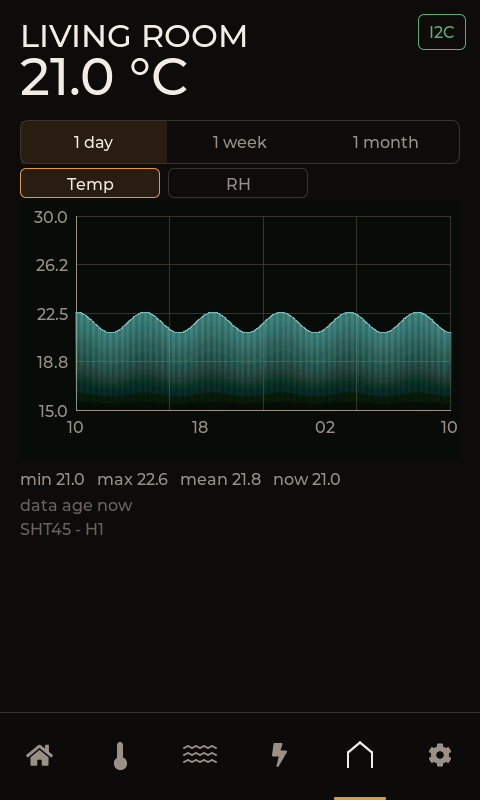
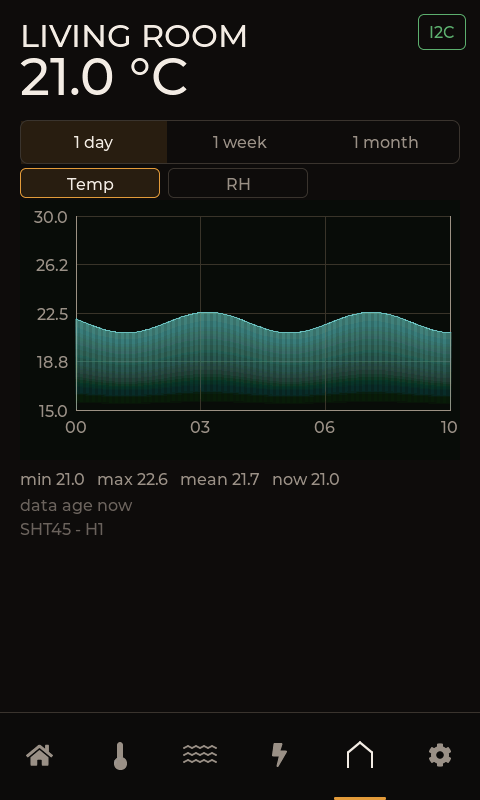
28_hauszentrale: chart audit — today window, live now, units (S23.24)

diff --git a/ESP32/28_hauszentrale/src/ui/haus_ui.c b/ESP32/28_hauszentrale/src/ui/haus_ui.c
@@ -933,7 +933,7 @@ static void build_zones(void) {
   }
 }
 
-static void ensure_chart_buffers(void);
+static bool ensure_chart_buffers(void);
 static void can_wave_tick(void);
 
 lv_obj_t* haus_ui_init(void) {
@@ -1301,11 +1301,12 @@ static int32_t* s_target_sum = NULL;
 #define TARGET_N_BYTES (HAUS_CHART_COLUMNS * sizeof(uint8_t))
 #define TARGET_SUM_BYTES (HAUS_CHART_COLUMNS * sizeof(int32_t))
 
-static void ensure_chart_buffers(void) {
+static bool ensure_chart_buffers(void) {
   if (!s_cols) s_cols = (ChartColumn*)haus_mem_alloc(CHART_SET_BYTES);
   if (!s_target) s_target = (int16_t*)haus_mem_alloc(TARGET_BYTES);
   if (!s_target_n) s_target_n = (uint8_t*)haus_mem_alloc(TARGET_N_BYTES);
   if (!s_target_sum) s_target_sum = (int32_t*)haus_mem_alloc(TARGET_SUM_BYTES);
+  return s_cols && s_target && s_target_n && s_target_sum;
 }
 
 static lv_obj_t* s_chart_canvas;
@@ -1375,12 +1376,13 @@ static bool s_chart_force = true;
 static uint32_t s_chart_last_sample;
 static bool s_chart_hourly;
 static uint32_t s_chart_t0, s_chart_t1;
+static uint32_t s_chart_now;
 static uint32_t s_chart_newest;
 
 static void ui_show_screen(int screen);
 static void ui_pop(void);
 static void chart_rebuild(void);
-static void ensure_chart_buffers(void);
+static bool ensure_chart_buffers(void);
 
 static uint16_t c565(uint32_t c) { return lv_color_to_u16(lv_color_hex(c)); }
 
@@ -1531,7 +1533,7 @@ static size_t chart_rollup_reader(void* ctx, size_t first, size_t count,
 }
 
 static void chart_build_target(uint32_t t0, uint32_t t1, bool hourly) {
-  ensure_chart_buffers();
+  if (!ensure_chart_buffers()) return;
   memset(s_target, 0, TARGET_BYTES);
   memset(s_target_n, 0, TARGET_N_BYTES);
   memset(s_target_sum, 0, TARGET_SUM_BYTES);
@@ -1544,7 +1546,8 @@ static void chart_build_target(uint32_t t0, uint32_t t1, bool hourly) {
       gui_read_target_hours_chunk(t0, first, n, chunk);
       for (size_t i = 0; i < n; i++) {
         if (chunk[i] == HAUS_CAN_TEMP_EMPTY || chunk[i] == GUI_EMPTY) continue;
-        const uint32_t t = t0 + (uint32_t)(first + i) * 3600u;
+        const uint32_t t =
+            (t0 - t0 % 3600u) + (uint32_t)(first + i) * 3600u;
         const size_t col = chart_col_for(t, t0, t1);
         s_target_sum[col] += chunk[i];
         s_target_n[col]++;
@@ -1560,7 +1563,8 @@ static void chart_build_target(uint32_t t0, uint32_t t1, bool hourly) {
       gui_read_target_samples_chunk(t0, first, n, chunk);
       for (size_t i = 0; i < n; i++) {
         if (chunk[i] == HAUS_CAN_TEMP_EMPTY || chunk[i] == GUI_EMPTY) continue;
-        const uint32_t t = t0 + (uint32_t)(first + i) * 60u;
+        const uint32_t t =
+            (t0 - t0 % 60u) + (uint32_t)(first + i) * 60u;
         const size_t col = chart_col_for(t, t0, t1);
         s_target_sum[col] += chunk[i];
         s_target_n[col]++;
@@ -1575,18 +1579,40 @@ static void chart_build_target(uint32_t t0, uint32_t t1, bool hourly) {
   }
 }
 
+static uint32_t local_midnight(uint32_t now) {
+  time_t t = (time_t)now;
+  struct tm tm;
+  if (localtime_r(&t, &tm)) {
+    tm.tm_hour = 0;
+    tm.tm_min = 0;
+    tm.tm_sec = 0;
+    tm.tm_isdst = -1;
+    const time_t m = mktime(&tm);
+    if (m > 0) return (uint32_t)m;
+  }
+  return now > 86400u ? now - 86400u : 0;
+}
+
 static void chart_build(void) {
   HausState st;
   gui_get_state(&st);
   uint32_t now = st.can.timestamp;
   if (now == 0) now = (uint32_t)time(NULL);
   if (now == 0) return;
+  if (!ensure_chart_buffers()) return;
 
-  const uint32_t span = (g_range == UI_RANGE_DAY)    ? 86400u
-                        : (g_range == UI_RANGE_WEEK) ? 7u * 86400u
-                                                     : 30u * 86400u;
-  const uint32_t t0 = now > span ? now - span : 0;
+  /* L1 is today's minute buffer. A rolling 24 h window would read
+   * yesterday's slots as today's future slots, so the 1-day view is
+   * local midnight .. now. The week/month view still rolls. */
+  uint32_t t0;
   const uint32_t t1 = now;
+  if (g_range == UI_RANGE_DAY) {
+    t0 = local_midnight(now);
+  } else {
+    const uint32_t span = (g_range == UI_RANGE_WEEK) ? 7u * 86400u
+                                                     : 30u * 86400u;
+    t0 = now > span ? now - span : 0;
+  }
 
   chart_cfg_t cfg;
   chart_cfg_for(g_detail_screen, &cfg);
@@ -1608,6 +1634,7 @@ static void chart_build(void) {
   s_chart_hourly = hourly;
   s_chart_t0 = t0;
   s_chart_t1 = t1;
+  s_chart_now = now;
   s_chart_newest = newest_epoch;
   s_chart_last_sample = gui_history_newest_epoch();
   s_chart_force = false;
@@ -1730,7 +1757,7 @@ static void chart_format_value(char* buf, size_t n, int32_t v, int unit) {
       temp_text((int16_t)v, buf, n, false);
       break;
     case CHART_UNIT_RH:
-      snprintf(buf, n, "%d", v / 100);
+      snprintf(buf, n, "%.1f", v / 100.0);
       break;
     case CHART_UNIT_POWER:
       if (v >= 10000)
@@ -1793,7 +1820,7 @@ static void chart_labels(chart_cfg_t* cfg) {
 }
 
 static void chart_draw(void) {
-  if (!s_chart_pixels) return;
+  if (!s_chart_pixels || !s_cols) return;
   /* Hide the setpoint label before the no-data early return; otherwise the
    * power screen keeps a stale "Soll" legend. */
   if (s_chart_target_lbl) obj_set_hidden(s_chart_target_lbl, true);
@@ -1807,12 +1834,14 @@ static void chart_draw(void) {
     const int y = CHART_Y0 + i * (CHART_Y1 - CHART_Y0) / 4;
     chart_hline(CHART_X0, CHART_X1, y, line);
   }
-  for (int i = 0; i <= 4; i++) {
-    const int x = CHART_X0 + i * (CHART_X1 - CHART_X0) / 4;
+  /* Three divisions to match the four x labels below the chart. */
+  for (int i = 0; i <= 3; i++) {
+    const int x = CHART_X0 + i * (CHART_X1 - CHART_X0) / 3;
     chart_vline(x, CHART_Y0, CHART_Y1, line);
   }
   chart_hline(CHART_X0, CHART_X1, CHART_Y1, c565(C_DIM));
   chart_vline(CHART_X0, CHART_Y0, CHART_Y1, c565(C_DIM));
+  chart_vline(CHART_X1, CHART_Y0, CHART_Y1, c565(C_DIM));
 
   chart_cfg_t cfg;
   chart_cfg_for(g_detail_screen, &cfg);
@@ -1848,7 +1877,8 @@ static void chart_draw(void) {
     const ChartColumn* c = &s_cols[i];
     const int x = CHART_X0 + (int)((uint64_t)i * (CHART_X1 - CHART_X0) /
                                    (HAUS_CHART_COLUMNS - 1));
-    const bool gap = (c->n[0] == 0) && (cfg.b < 0 || c->n[1] == 0);
+    const bool gap = (c->n[0] == 0) && (cfg.b < 0 || c->n[1] == 0) &&
+                     !(cfg.use_target && s_target_n[i]);
     if (gap) {
       /* Only mark dropouts between real data. Leading and trailing empty
        * columns are "no data yet", not a gap, and must stay clean. */
@@ -1964,10 +1994,48 @@ static void chart_draw(void) {
   lv_obj_invalidate(s_chart_canvas);
 }
 
+static bool chart_live_value(int series, int32_t* out) {
+  if (!out) return false;
+  HausState st;
+  gui_get_state(&st);
+  switch (series) {
+    case 0:
+      *out = st.can.temp_by_fn[SENSOR_FN_CHAMBER];
+      break;
+    case 1:
+      *out = st.can.temp_by_fn[SENSOR_FN_WATER_IN];
+      break;
+    case 2:
+      *out = st.can.temp_by_fn[SENSOR_FN_WATER_OUT];
+      break;
+    case 3:
+      if (!(st.climate.climate_flags & CLIMATE_VALID_SHT45)) return false;
+      *out = st.climate.living_c100;
+      break;
+    case 4:
+      if (!(st.climate.climate_flags & CLIMATE_VALID_SHT45)) return false;
+      *out = (int32_t)st.climate.hum_c100;
+      break;
+    case GUI_SERIES_TARGET:
+      *out = st.can.chamber_target_c;
+      break;
+    case 7:
+      if (!st.can.valid) return false;
+      *out = st.can.watts > 0 ? st.can.watts * 10 : 0;
+      if (*out > 65535) *out = 65535;
+      break;
+    default:
+      return false;
+  }
+  return *out != HAUS_CAN_TEMP_EMPTY && *out != GUI_EMPTY;
+}
+
 static void chart_update_readouts(void) {
+  if (!s_cols || !s_chart_readout) return;
   chart_cfg_t cfg;
   chart_cfg_for(g_detail_screen, &cfg);
-  int32_t mn = 0, mx = 0, sum = 0;
+  int32_t mn = 0, mx = 0;
+  int64_t sum = 0;
   uint32_t n = 0;
   int32_t now = 0;
   bool have_now = false;
@@ -1986,13 +2054,16 @@ static void chart_update_readouts(void) {
     have_now = true;
   }
 
+  int32_t live = 0;
+  if (chart_live_value(cfg.a, &live)) now = live;
+
   char a[24], b[24], c[24], d[24];
   if (n == 0) {
     txt(s_chart_readout, "no data in this range");
   } else {
     chart_format_axis(a, sizeof(a), mn, cfg.unit);
     chart_format_axis(b, sizeof(b), mx, cfg.unit);
-    chart_format_axis(c, sizeof(c), sum / (int32_t)n, cfg.unit);
+    chart_format_axis(c, sizeof(c), (int32_t)(sum / (int64_t)n), cfg.unit);
     chart_format_axis(d, sizeof(d), now, cfg.unit);
     char line[120];
     snprintf(line, sizeof(line), "min %s   max %s   mean %s   now %s", a, b, c,
@@ -2014,7 +2085,7 @@ static void chart_update_readouts(void) {
     return;
   }
 
-  const uint32_t age = s_chart_t1 > newest ? s_chart_t1 - newest : 0;
+  const uint32_t age = s_chart_now > newest ? s_chart_now - newest : 0;
   char agebuf[96];
   if (age < 90)
     snprintf(agebuf, sizeof(agebuf), "data age now");
@@ -2099,11 +2170,13 @@ static void chart_scrub_cb(lv_event_t* e) {
     char when[24] = "";
     if (localtime_r(&t, &tm))
       snprintf(when, sizeof(when), "%02d:%02d", tm.tm_hour, tm.tm_min);
+    chart_cfg_t cfg;
+    chart_cfg_for(g_detail_screen, &cfg);
     char mn[16], mean[16], mx[16], line[80];
-    chart_format_value(mn, sizeof(mn), s_cols[col].mn[0], CHART_UNIT_TEMP);
+    chart_format_value(mn, sizeof(mn), s_cols[col].mn[0], cfg.unit);
     chart_format_value(mean, sizeof(mean),
-                       s_cols[col].sum[0] / s_cols[col].n[0], CHART_UNIT_TEMP);
-    chart_format_value(mx, sizeof(mx), s_cols[col].mx[0], CHART_UNIT_TEMP);
+                       s_cols[col].sum[0] / s_cols[col].n[0], cfg.unit);
+    chart_format_value(mx, sizeof(mx), s_cols[col].mx[0], cfg.unit);
     snprintf(line, sizeof(line), "%s  %s / %s / %s", when, mn, mean, mx);
     txt(s_scrub_text, line);
   }

diff --git a/ESP32/28_hauszentrale/docs/todos.md b/ESP32/28_hauszentrale/docs/todos.md
@@ -4,7 +4,7 @@ Derived from `docs/whitepaper.md` rev 1.6. Order: board first, then the macOS
 environment, then Deliverable A (`tpl_waveshare_lcd7`), then the project.
 Every item names the check that closes it.
 
-349 items (42 open). Tick boxes as work lands.
+353 items (45 open). Tick boxes as work lands.
 
 ## S0 · BENCH — the two things only the hardware can answer
 
@@ -415,6 +415,11 @@ figures are Soll values; write them that way in the UI and the docs.
 - [x] S23.21 Replay the card's history when a card is inserted after a card-less boot, and show occupancy evidence — Test: insert a card with `rollup.bin`/day files and the week/month charts show it without a reboot; STORAGE shows how many entries exist and since when — Done: the SD watchdog calls `haus_history_restore()` after a verified mount/remount and requests a redraw; the log reads `restored 4 columns from SD rollup` and `boot restore: 4 columns`. STORAGE now renders `today N / 1440 last <time>`, `rollup N / 744 since <time>`, `restored N columns`, and `/sd/status` carries `l1_count`, `l2_count`, `l1_first/last`, `l2_first/last`, `restored`. Verified on the card: `l1_count` rose 3 → 5 in 70 s while `l2_count` stayed 5, so sampling and restore are both live.
 - [x] S23.22 Living-room samples must not inherit CAN staleness — Test: with CAN off, `stale_mask` clears for living/humidity and the living chart plots new SHT45 points — Done: `climate.last_update_epoch` is now the wall clock at the SHT45 read, not `can.timestamp`; with CAN off the stale mask is `0x00` and `l1_count` grows. Restored samples recorded before this fix may still carry the old stale bits; only new samples plot.
 - [x] S23.23 Report data age from the newest contributing sample, not the chart bucket start — Test: LIVING ROOM says `data age now` while samples are current and only ages after they stop — Done: `haus_chart_build_samples`/`haus_chart_build_rollup` return the newest source epoch and the detail screen uses it. The 440 columns span 86 400 s, so a bucket start was up to 3 min 16 s old and made fresh data look stale. The host mock's history now ends at the simulated current minute.
+
+- [x] S23.24 Chart audit: fix the remaining time/data mismatches — Test: the 1-day chart uses today's L1, `now` matches the header, and scrubbing a power/RH chart formats the right unit — Done: the 1-day window is local midnight .. now (L1 is today only; a rolling 24 h window was reading tomorrow's slots), `now` uses the live value instead of the last bucket mean, `data age` uses the newest sample, scrub formatting uses the chart unit, RH readouts keep one decimal, the readout sum is 64-bit, the target series is aligned to the reader's rounded base, allocation failures no longer dereference NULL, and the x grid has three divisions matching the four labels.
+- [ ] S23.25 Power at 1 week / 1 month has no rollup source — L2 carries six series but no power, and power sets `hourly_ok = 0`, so the week/month power charts read L1 (today only) and show a fragment. Decide: add power to L2 (format, writer, reader), limit power to 1 day, or read the SD day files.
+- [ ] S23.26 The scrub bubble labels the column's bucket start — at 1 day that is up to 3 min 16 s before the samples it aggregates. The whitepaper says the bubble is a column aggregate, so either show the bucket range or accept the start explicitly.
+- [ ] S23.27 "above target" counts a whole bucket when its mean exceeds the target mean — partial buckets and buckets with few samples are overcounted; scale by the sample count or accumulate per-sample above/below time.
 
 ## S24 · CAN ENABLE SWITCH (boot sequence, N19)
 
